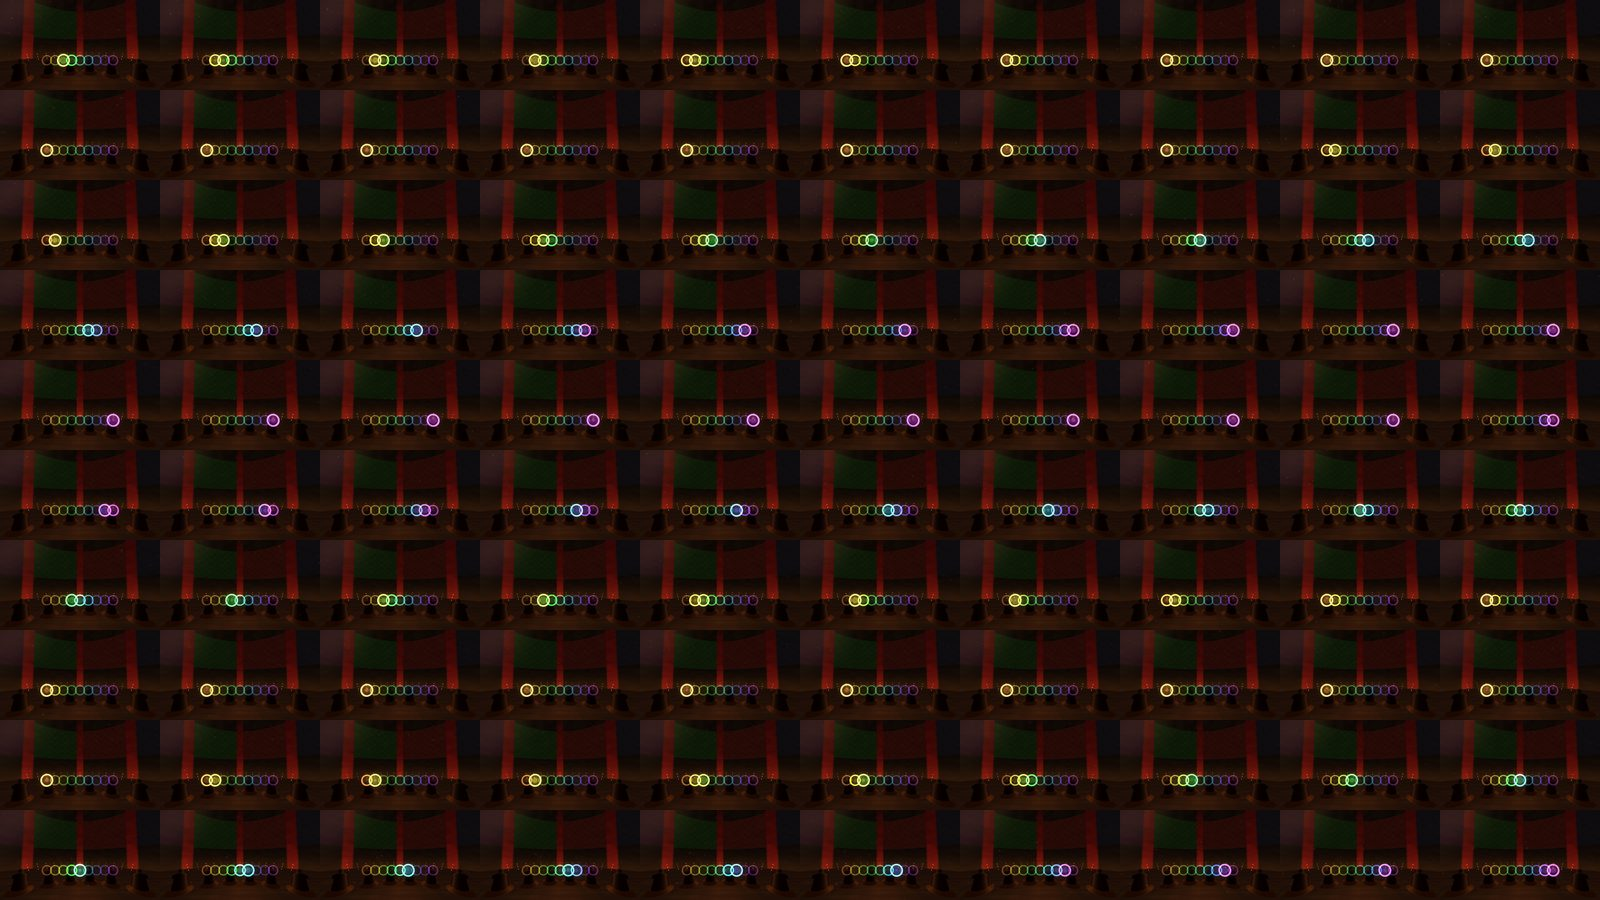
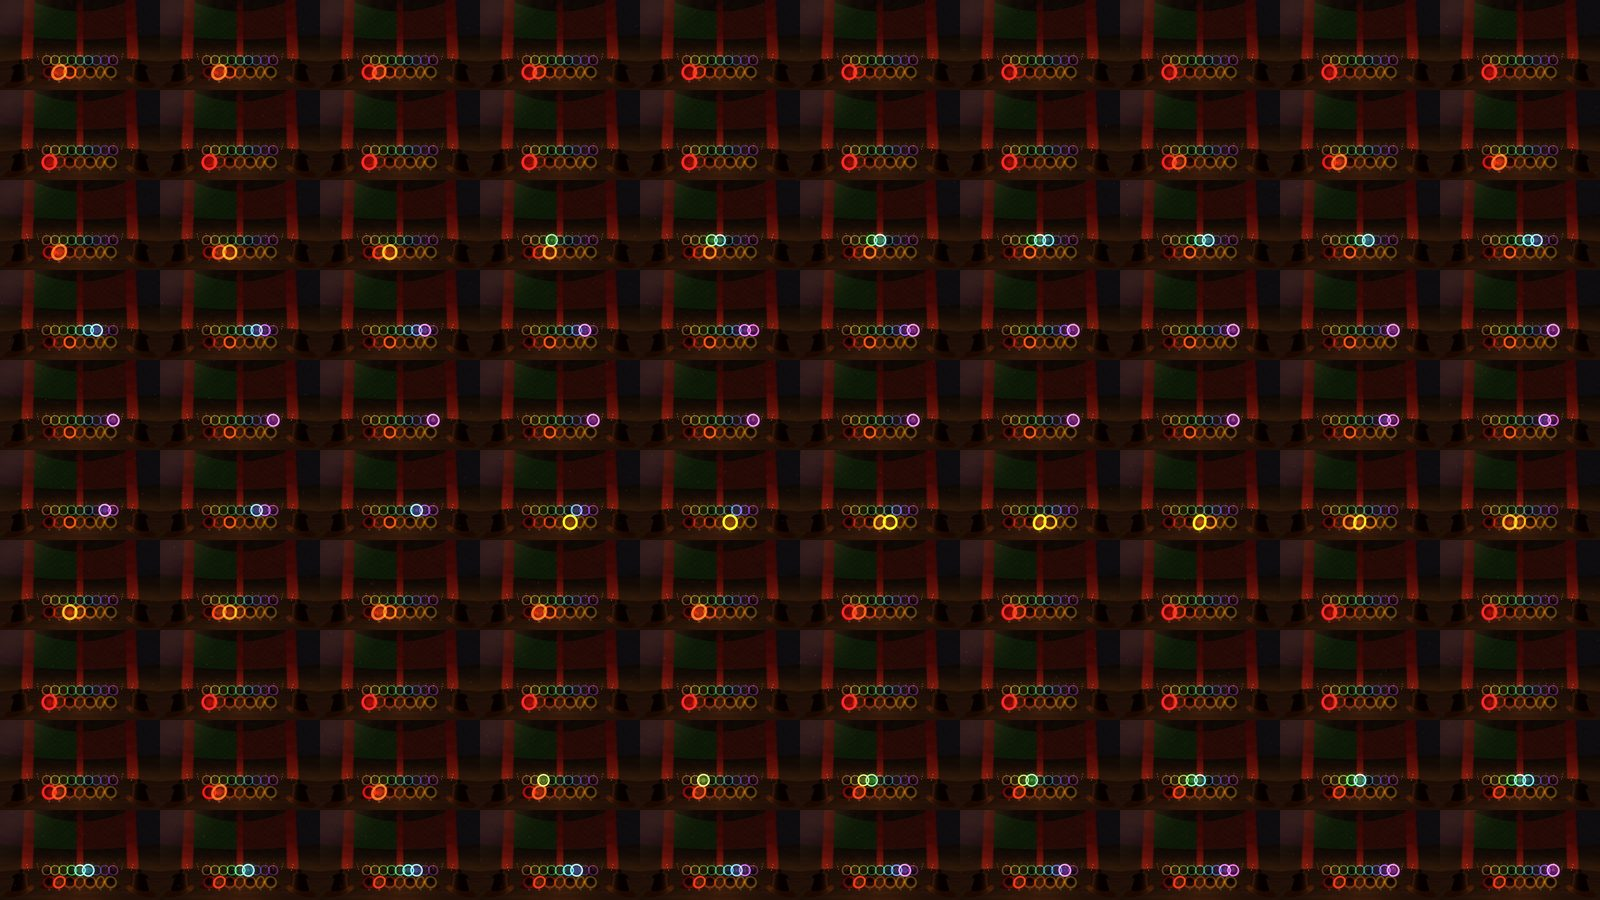
Tibetan monks: a second ring chain leads the chant; beams hide over the rings
- Lower chain of seven rings (G B♭ C E♭ F G B♭): touch one and the whole choir,
  undertone and overtones glide to that note and stay there; the monks nod
- Upper overtone rings follow the chanting note
- Controller beams and tips hide while a hand is over the rings, and return when clear
- sw v92

Claude-Session: https://claude.ai/code/session_0157Wu3LX7XvtocLAYFRUbic

diff --git a/src/visuals/scenes/monks.js b/src/visuals/scenes/monks.js
@@ -10,8 +10,9 @@ import { textPlane } from './imagecycle.js';
 // formants, moving through the syllables in slow, overlapping phrases.
 // Interactive: a column of glowing rings rises in front of you, one for each
 // overtone of the chant's low note. Touch a ring and that overtone sings out of
-// the choir, as real overtone singers do; slide up and down to play melodies
-// made only of the chant's own harmonics.
+// the choir, as real overtone singers do; slide along to play melodies
+// made only of the chant's own harmonics. A second, lower chain sets the note
+// the whole choir chants on, so you can lead the chant itself.
 
 const F0 = 65.41;                                   // C2: the drone
 const HARMONICS = [4, 5, 6, 7, 8, 9, 10, 11, 12];
@@ -20,6 +21,10 @@ const VOWELS = { o: [430, 780, 2600], m: [250, 600, 2200], a: [700, 1100, 2450],
 // Om · Ma · Ni · Pad · Me · Hum: [vowel, seconds]
 const PHRASE = [['o', 3.2], ['m', 1.6], ['a', 1.5], ['i', 1.4], ['a', 1.4], ['e', 1.5], ['u', 2.2], ['m', 1.8]];
 const RING_D = 0.62, RING_Y = -0.12, RING_STEP = 0.082, RING_R = 0.045;   // a chain of linked rings across in front of you
+// a second, lower chain sets the note the monks chant on (minor pentatonic around the C drone)
+const NOTES = [-5, -2, 0, 3, 5, 7, 10], HOME = 2;
+const NOTE_Y = -0.235, NOTE_STEP = 0.1, NOTE_R = 0.052;
+const NOTE_NAMES = ['G', 'B♭', 'C', 'E♭', 'F', 'G', 'B♭'];
 
 export class MonksScene extends BaseScene {
   constructor() {
@@ -135,11 +140,40 @@ export class MonksScene extends BaseScene {
       g.add(ring, glow);
       g.position.set((k - (HARMONICS.length - 1) / 2) * RING_STEP, RING_Y, -RING_D);   // low overtones on the left, high on the right
       this.rig.add(g);
-      return { n, g, ring, glow, on: 0, target: 0 };
+      return { n, g, ring, glow, on: 0, target: 0, R: RING_R };
     });
-    this.hint = textPlane(U, 0.8, 0.06);
-    this.hint.position.set(0, RING_Y - 0.1, -RING_D);
-    this.hint.userData.set('Touch a ring to bring out its overtone');
+    // the chant chain: deeper, saffron and crimson like the robes, slightly larger links
+    this.notes = NOTES.map((semi, k) => {
+      const col = new THREE.Color().setHSL(0.0 + k * 0.022, 0.9, 0.5);
+      const ring = new THREE.Mesh(new THREE.TorusGeometry(NOTE_R, 0.009, 12, 56), new THREE.ShaderMaterial({
+        transparent: true, depthWrite: false, blending: THREE.AdditiveBlending,
+        uniforms: { uFade: U.uFade, uCol: { value: col }, uOn: { value: 0 }, uSel: { value: 0 } },
+        vertexShader: 'void main(){ gl_Position = projectionMatrix * modelViewMatrix * vec4(position,1.0); }',
+        fragmentShader: 'uniform float uFade, uOn, uSel; uniform vec3 uCol; void main(){ gl_FragColor = vec4(uCol * (0.3 + uSel * 0.5 + uOn * 1.4) * uFade, 1.0); }',
+      }));
+      ring.rotation.y = (k % 2) * 0.5;   // alternate links turned, like a real chain
+      const glow = new THREE.Mesh(new THREE.CircleGeometry(NOTE_R * 2.4, 32), new THREE.ShaderMaterial({
+        transparent: true, depthWrite: false, blending: THREE.AdditiveBlending,
+        uniforms: { uFade: U.uFade, uCol: { value: col }, uOn: { value: 0 }, uSel: { value: 0 }, uTime: U.uTime },
+        vertexShader: 'varying vec2 vP; void main(){ vP = position.xy; gl_Position = projectionMatrix * modelViewMatrix * vec4(position,1.0); }',
+        fragmentShader: `uniform float uFade, uOn, uSel, uTime; uniform vec3 uCol; varying vec2 vP;
+          void main(){ float r = length(vP) / ${(NOTE_R * 2.4).toFixed(4)}; float a = exp(-r * r * 6.0) * (0.04 + uSel * 0.22 + uOn * 0.5) * (0.85 + 0.15 * sin(uTime * 3.0 - r * 10.0));
+            gl_FragColor = vec4(uCol * a * uFade, 1.0); }`,
+      }));
+      const label = textPlane(U, 0.08, 0.03);
+      label.userData.set(NOTE_NAMES[k]);
+      label.position.set(0, -NOTE_R - 0.022, 0);
+      label.material.uniforms.uA.value = 0.35;
+      const g = new THREE.Group();
+      g.add(ring, glow, label);
+      g.position.set((k - (NOTES.length - 1) / 2) * NOTE_STEP, NOTE_Y, -RING_D);
+      this.rig.add(g);
+      return { semi, g, ring, glow, on: 0, target: 0, R: NOTE_R, note: true };
+    });
+    this.sel = HOME; this.root = F0; this.nod = 0;
+    this.hint = textPlane(U, 1.0, 0.06);
+    this.hint.position.set(0, NOTE_Y - 0.11, -RING_D);
+    this.hint.userData.set('Upper rings: overtones · lower rings: the note of the chant');
     this.rig.add(this.hint);
     this.hintA = 1;
     this.placeNext = true;
@@ -203,7 +237,7 @@ export class MonksScene extends BaseScene {
       const w = ctx.createOscillator(); w.type = 'sine'; w.frequency.value = F0 * n;
       const wg = ctx.createGain(); wg.gain.value = 0;
       w.connect(wg).connect(out); w.start();
-      return { g, wg, w };
+      return { g, wg, w, bp };
     });
     this.snd = { ctx, out, send, voices, sub, subG, formants, tones, nodes: [out, send, source, body, bodyG, subLp] };
     this.step = -1; this.stepT = 0; this.breath = 0;
@@ -236,36 +270,57 @@ export class MonksScene extends BaseScene {
     S.subG.gain.setTargetAtTime(vowel === 'm' ? 0.05 : 0.09, now, 0.4);
     // the pitch sags a little at the end of the phrase
     const sag = this.step === PHRASE.length - 1 ? 0.97 : 1;
-    S.voices.forEach((v, i) => v.o.frequency.setTargetAtTime(F0 * (1 + (i - 2.5) * 0.0025) * sag, now, 0.8));
+    S.voices.forEach((v, i) => v.o.frequency.setTargetAtTime(this.root * (1 + (i - 2.5) * 0.0025) * sag, now, this.gliding ? 0.25 : 0.8));
     this.stepT = dur * (0.92 + Math.random() * 0.16);
+  }
+
+  // glide the whole choir (and its overtones) to a new note
+  _retune(k) {
+    if (k === this.sel) return;
+    this.sel = k; this.root = F0 * Math.pow(2, NOTES[k] / 12); this.nod = 1;
+    const S = this.snd;
+    if (!S) return;
+    const now = S.ctx.currentTime, gl = 0.12;
+    S.voices.forEach((v, i) => { v.o.frequency.setTargetAtTime(this.root * (1 + (i - 2.5) * 0.0025), now, gl); });
+    S.sub.frequency.setTargetAtTime(this.root / 2, now, gl);
+    S.tones.forEach((T, j) => { T.bp.frequency.setTargetAtTime(this.root * HARMONICS[j], now, gl); T.w.frequency.setTargetAtTime(this.root * HARMONICS[j], now, gl); });
+    // if the choir is resting between phrases, wake it on the new note
+    if (this.breath) { this.stepT = 0; }
   }
 
   update(dt, t) {
     if (this.placeNext) this.placeNext = !this._place();
     this.rig.updateMatrixWorld(true);
     // the monks sway gently
-    for (const mk of this.monks) mk.m.rotation.z = Math.sin(t * 0.4 + mk.ph) * 0.02;
+    this.nod = Math.max(0, this.nod - dt * 1.5);
+    for (const mk of this.monks) { mk.m.rotation.z = Math.sin(t * 0.4 + mk.ph) * 0.02; mk.m.position.y = -Math.sin(this.nod * Math.PI) * 0.025; }
 
     // touching rings
-    for (const r of this.rings) r.target = 0;
+    const all = this.all ||= [...this.rings, ...this.notes];
+    for (const r of all) r.target = 0;
     const inv = new THREE.Matrix4().copy(this.rig.matrixWorld).invert();
     const pointers = this.demo ? this._demoPointers(t) : INPUT.pointers;
+    const over = this.hideRays ||= new Set();
+    over.clear();
     for (const p of pointers) {
       let best = null, bd = Infinity;
       if (p.tip) {
         const q = p.tip.clone().applyMatrix4(inv);
-        for (const r of this.rings) { const d = q.distanceTo(r.g.position); if (d < RING_R * 1.6 && d < bd) { bd = d; best = r; } }
+        for (const r of all) { const d = q.distanceTo(r.g.position); if (d < r.R * 1.6 && d < bd) { bd = d; best = r; } }
+        // hide this hand's beam while the fingertip is among the rings
+        for (const r of all) if (q.distanceTo(r.g.position) < r.R * 3) { over.add(p.id); break; }
       } else {
         const o = p.origin.clone().applyMatrix4(inv), d = p.dir.clone().transformDirection(inv);
         if (Math.abs(d.z) > 1e-3) {
           const k = (-RING_D - o.z) / d.z;
           if (k > 0) {
             const q = o.addScaledVector(d, k);
-            for (const r of this.rings) { const dd = q.distanceTo(r.g.position); if (dd < RING_R * 1.15 && dd < bd) { bd = dd; best = r; } }
+            if (Math.abs(q.y - (RING_Y + NOTE_Y) / 2) < 0.12 && Math.abs(q.x) < NOTE_STEP * NOTES.length / 2 + 0.03) over.add(p.id);   // over the chains: hide the beam
+            for (const r of all) { const dd = q.distanceTo(r.g.position); if (dd < r.R * 1.15 && dd < bd) { bd = dd; best = r; } }
           }
         }
       }
-      if (best) { best.target = 1; this.hintA = Math.min(this.hintA, 0.99); }
+      if (best) { best.target = 1; this.hintA = Math.min(this.hintA, 0.99); if (best.note) this._retune(this.notes.indexOf(best)); }
     }
 
     const S = this._choir();
@@ -279,20 +334,27 @@ export class MonksScene extends BaseScene {
         T.wg.gain.setTargetAtTime(r.target * 0.045, now, r.target ? 0.15 : 0.6);
       }
     }
-    for (const r of this.rings) {
+    for (const r of all) {
       r.on += (r.target - r.on) * (1 - Math.exp(-dt * (r.target ? 10 : 2.5)));
       r.ring.material.uniforms.uOn.value = r.on;
       r.glow.material.uniforms.uOn.value = r.on;
       r.g.scale.setScalar(1 + r.on * 0.25);
     }
+    // the chanting note stays softly lit, breathing with the choir
+    this.notes.forEach((r, k) => {
+      const s = k === this.sel ? 1 : 0;
+      r.ring.material.uniforms.uSel.value += (s - r.ring.material.uniforms.uSel.value) * (1 - Math.exp(-dt * 4));
+      r.glow.material.uniforms.uSel.value = r.ring.material.uniforms.uSel.value * (0.8 + 0.2 * Math.sin(t * 1.3));
+    });
     if (this.hintA < 1) this.hintA = Math.max(0, this.hintA - dt * 0.3);
     this.hint.material.uniforms.uA.value = 0.5 * this.hintA * Math.min(1, t * 0.3);
   }
 
   // for previews: an invisible hand drifts back and forth along the chain
   _demoPointers(t) {
-    const k = Math.floor((Math.sin(t * 0.5) * 0.5 + 0.5) * (this.rings.length - 0.01));
-    const world = this.rings[k].g.position.clone().applyMatrix4(this.rig.matrixWorld);
+    const row = Math.floor(t / 6) % 2 ? this.notes : this.rings;
+    const k = Math.floor((Math.sin(t * 0.5) * 0.5 + 0.5) * (row.length - 0.01));
+    const world = row[k].g.position.clone().applyMatrix4(this.rig.matrixWorld);
     return [{ id: 'demo', origin: world, dir: new THREE.Vector3(0, 0, -1), tip: world }];
   }
 

diff --git a/src/journeys.js b/src/journeys.js
@@ -31,7 +31,7 @@ export function buildJourneys() {
   // Premium Interactive: journeys you play with your hands
   const reiki = TRACKS.find((t) => t.id === 'reiki');
   const interactive = [
-    { ...base('crown'), musicOff: true, id: 'j-monks', title: 'Tibetan monks', intent: 'A deep chant in a candlelit hall · touch the rings to bring out its overtones', scene: 'monks', palette: ['#1a0604', '#8a2a14', '#ffb060'] },
+    { ...base('crown'), musicOff: true, id: 'j-monks', title: 'Tibetan monks', intent: 'A deep chant in a candlelit hall · touch the rings to lead the chant and bring out its overtones', scene: 'monks', palette: ['#1a0604', '#8a2a14', '#ffb060'] },
     { ...base('crown'), musicOff: true, id: 'j-tibetanbowls', title: 'Tibetan singing bowls', intent: 'Circle the rim of each bowl with your finger to make it sing', scene: 'tibetanbowls', palette: ['#140904', '#8a4a1a', '#ffc27a'] },
     { ...base('crown'), musicOff: true, id: 'j-crystalbowls', title: 'Crystal singing bowls', intent: 'Play a chakra set of glowing quartz bowls', scene: 'crystalbowls', palette: ['#05061a', '#4a4aa8', '#e8ecff'] },
     { ...base('connect'), musicOff: true, id: 'j-metalchimes', title: 'Metal wind chimes', intent: 'Sweep your hand through tuned silver chimes at dusk', scene: 'metalchimes', palette: ['#0a1030', '#6a7ab0', '#ffd0d0'] },

diff --git a/src/ui/xrMenu.js b/src/ui/xrMenu.js
@@ -785,10 +785,11 @@ export class XRMenu {
       this.brandHold = null;
     }
     const hovered = new Set();
-    for (const ctl of this.controllers) {
+    const hide = this.app.active?.hideRays;   // a scene can hide a beam while it's over something you play
+    for (const [ci, ctl] of this.controllers.entries()) {
       const u = ctl.userData;
       if (!u.connected) continue;
-      const showRay = this.visible || this.orb.mesh.visible || !!this.app.active?.wantsPointer;
+      const showRay = this.visible || this.orb.mesh.visible || (!!this.app.active?.wantsPointer && !hide?.has(ci));
       this.raycaster.setFromXRController(ctl);
       const hits = this._hits();
       u.ray.visible = showRay && u.mode !== 'gaze' && u.mode !== 'transient-pointer';

diff --git a/public/sw.js b/public/sw.js
@@ -1,7 +1,7 @@
 // Network-first with offline fallback: you always get the newest version
 // (and any newly recorded voice clips) when online, and MindLyte still works
 // with no connection because everything it plays is generated on-device.
-const CACHE = 'mindlyte-v91';
+const CACHE = 'mindlyte-v92';
 const SHELL = ['./', './index.html', './app.js', './styles.css', './manifest.webmanifest', './icons/icon-192.png', './icons/icon-512.png'];
 
 self.addEventListener('install', (e) => {
